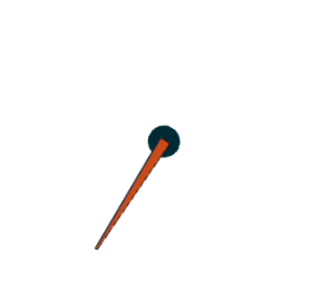
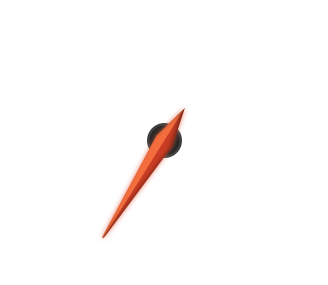
new gauge design

Changed region(s): [[0.2744, 0.3649, 0.5793, 0.8982]]

diff --git a/test.py b/test.py
@@ -1,0 +1,21 @@
+def __scale(val, src, dst):
+    """
+    :param val: value
+    :param src: source range, e.g. 0 - 100
+    :param dst: destination range, e.g. 555 - 888
+    :return: val corrected to be proportional to the destination range
+    """
+    return ((val - src[0]) / (src[1] - src[0])) * (dst[1] - dst[0]) + dst[0]
+
+
+source_scales = {
+    'oil_temp': (266, 393),
+    'water_temp': (266, 393),
+    'oil_pressure': (0, 551)
+}
+
+
+print("OIL-TEMP: \n\tHIGH: " + str(int(__scale(369, source_scales['oil_temp'], (0, 290)))) + "\n\tLOW: " + str(int(__scale(344, source_scales['oil_temp'], (0, 290)))))
+print("WATER-TEMP: \n\tHIGH: " + str(int(__scale(377, source_scales['water_temp'], (0, 290)))) + "\n\tLOW: " + str(int(__scale(344, source_scales['water_temp'], (0, 290)))))
+print("OIL-PRESSURE: \n\tHIGH: " + str(int(__scale(377, source_scales['oil_pressure'], (0, 290)))) + "\n\tLOW: " + str(int(__scale(206, source_scales['oil_pressure'], (0, 290)))))
+

diff --git a/oldlib/rx8dash/gui.py b/oldlib/rx8dash/gui.py
@@ -175,7 +175,7 @@ class GUI:
             Image.open(f"data/assets/templates/small_gauge.png").resize((328, 285), Image.ANTIALIAS)
         )
         self.__needle = ImageTk.PhotoImage(
-            Image.open("data/assets/templates/needle.png").resize((270, 270), Image.ANTIALIAS)
+            Image.open("data/assets/templates/needle_orig.png").resize((270, 270), Image.ANTIALIAS)
         )
 
         # water temp icons

diff --git a/lib/core.py b/lib/core.py
@@ -64,7 +64,7 @@ class GUI:
 
         self.logger.info("Begin default GUI updatecycle")
         self._first_run = False
-        self.mainframe.grid(column=0, row=0, padx=0, pady=0)
+        self.mainframe.grid(column=0, row=0, padx=0, pady=20)
         self.telltales_animation.load()
 
     def check_ready(self):
